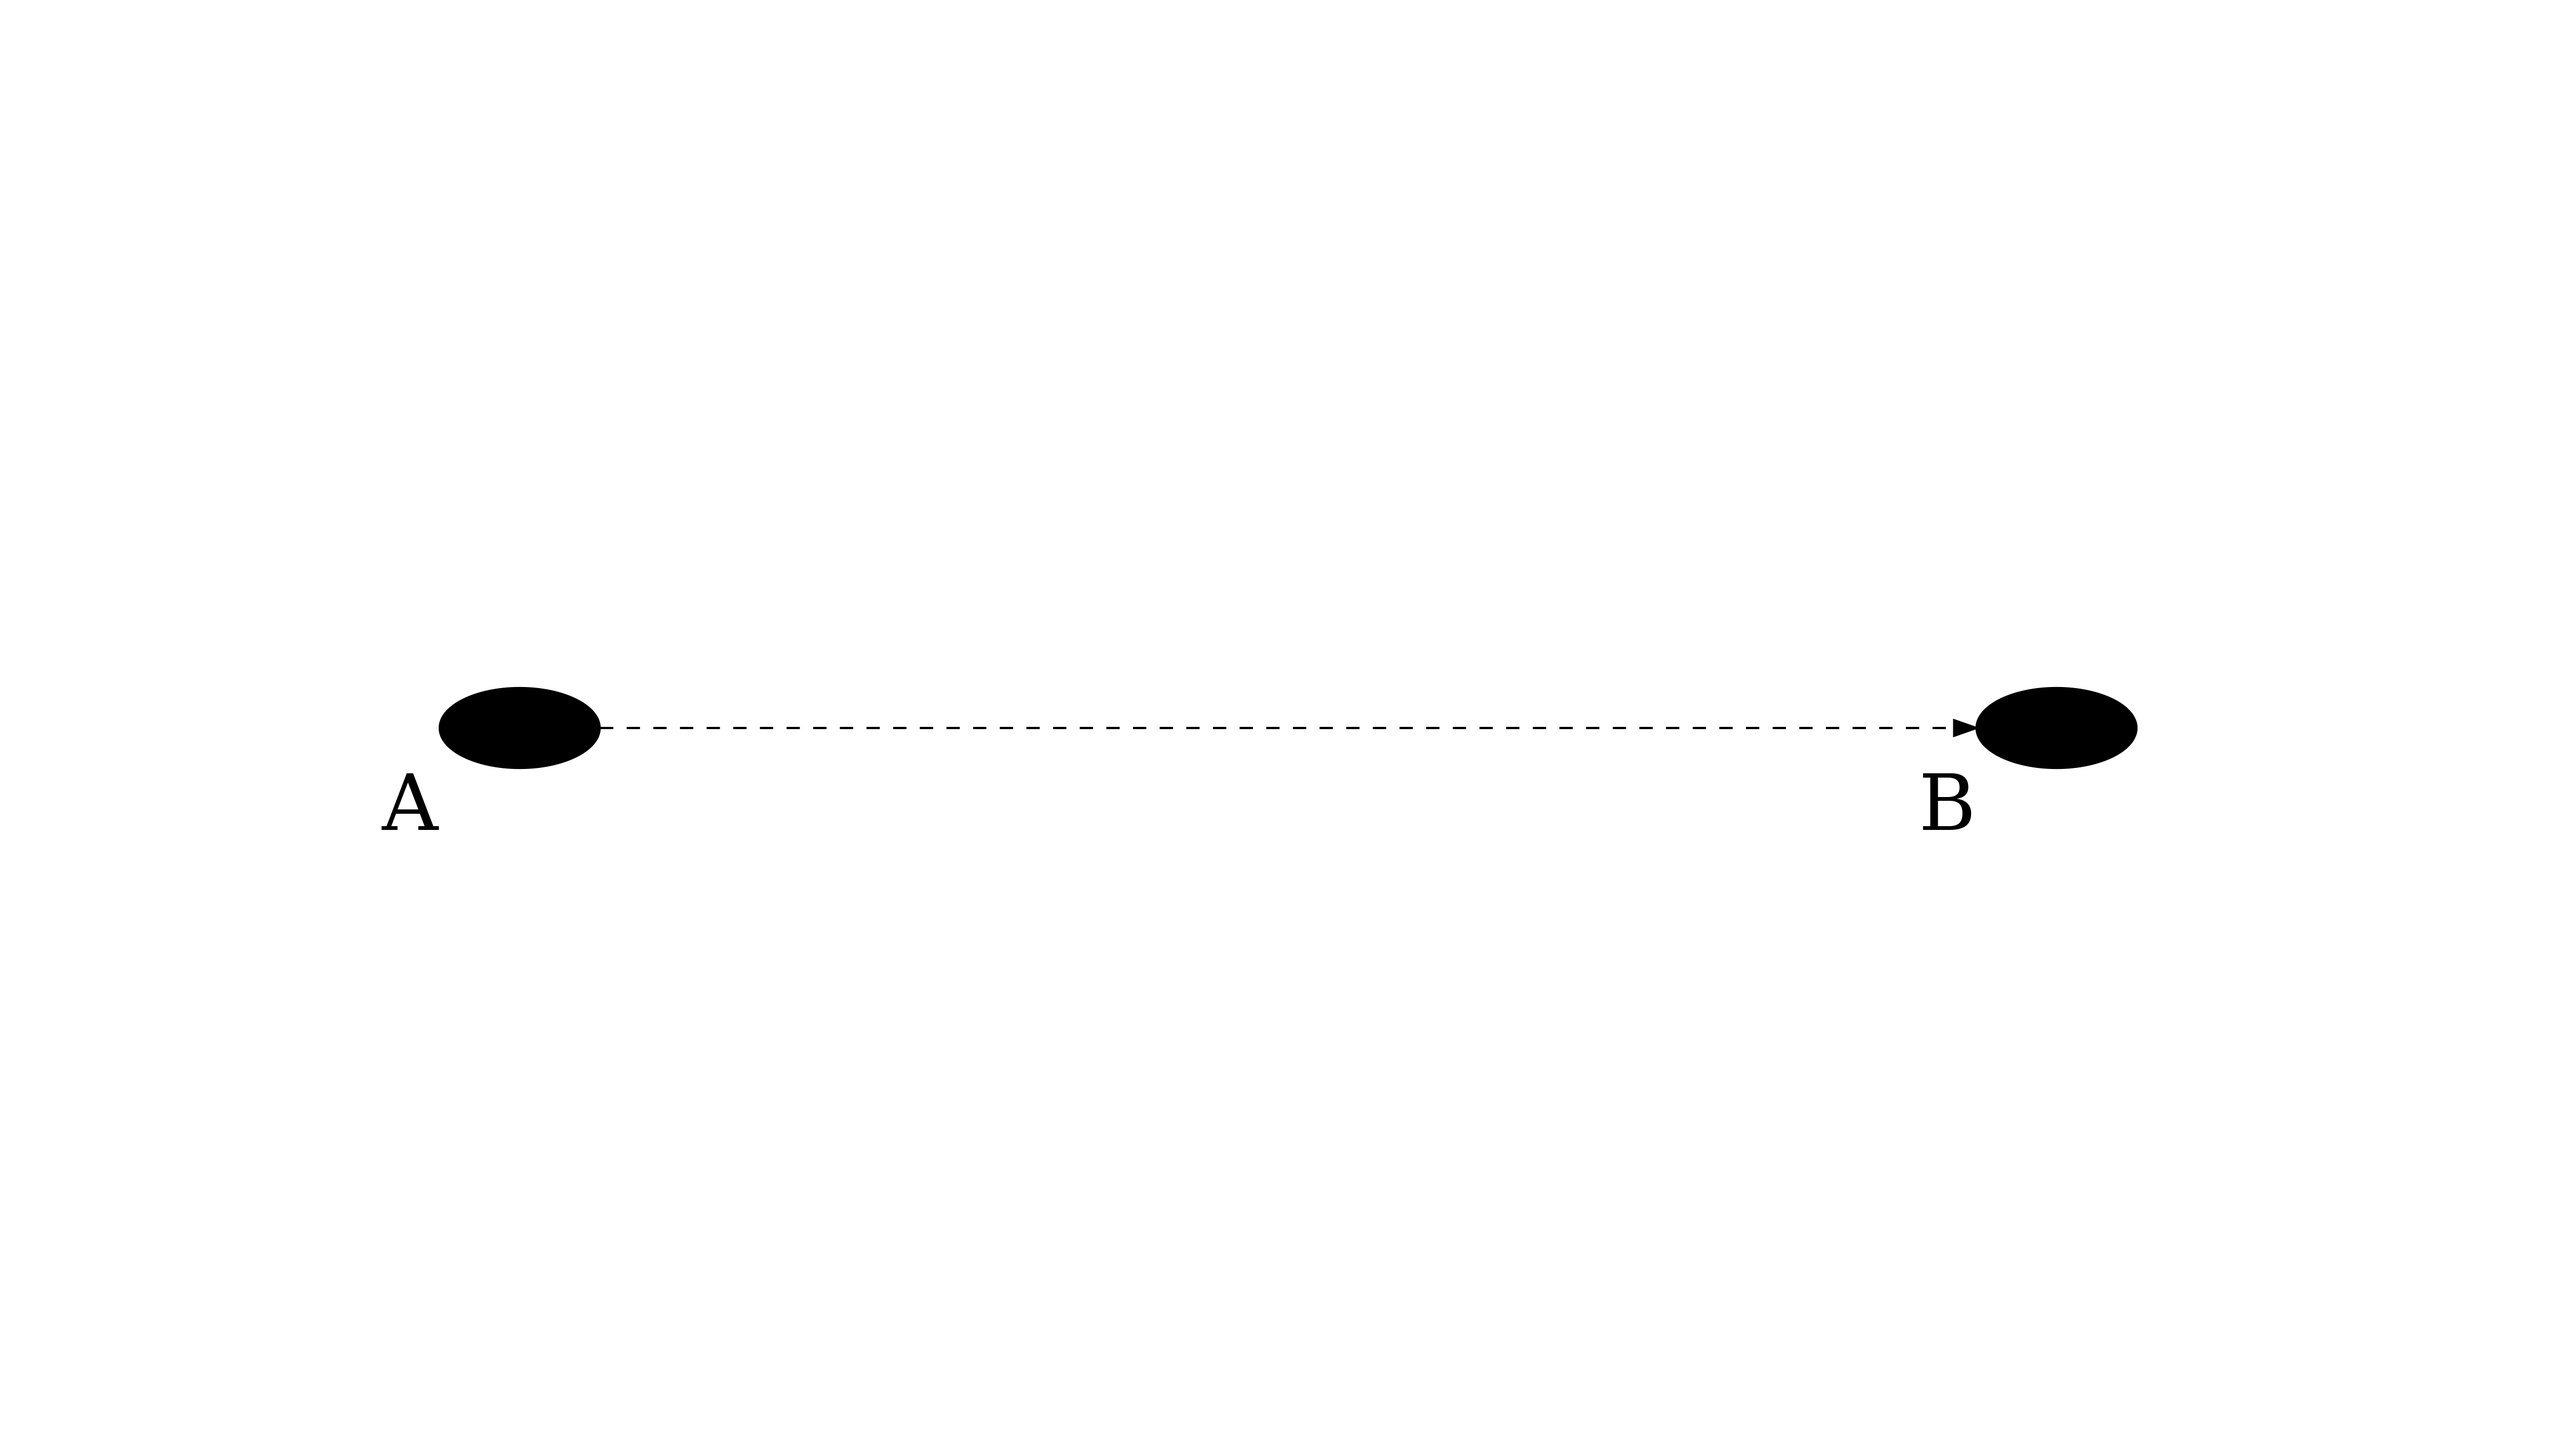
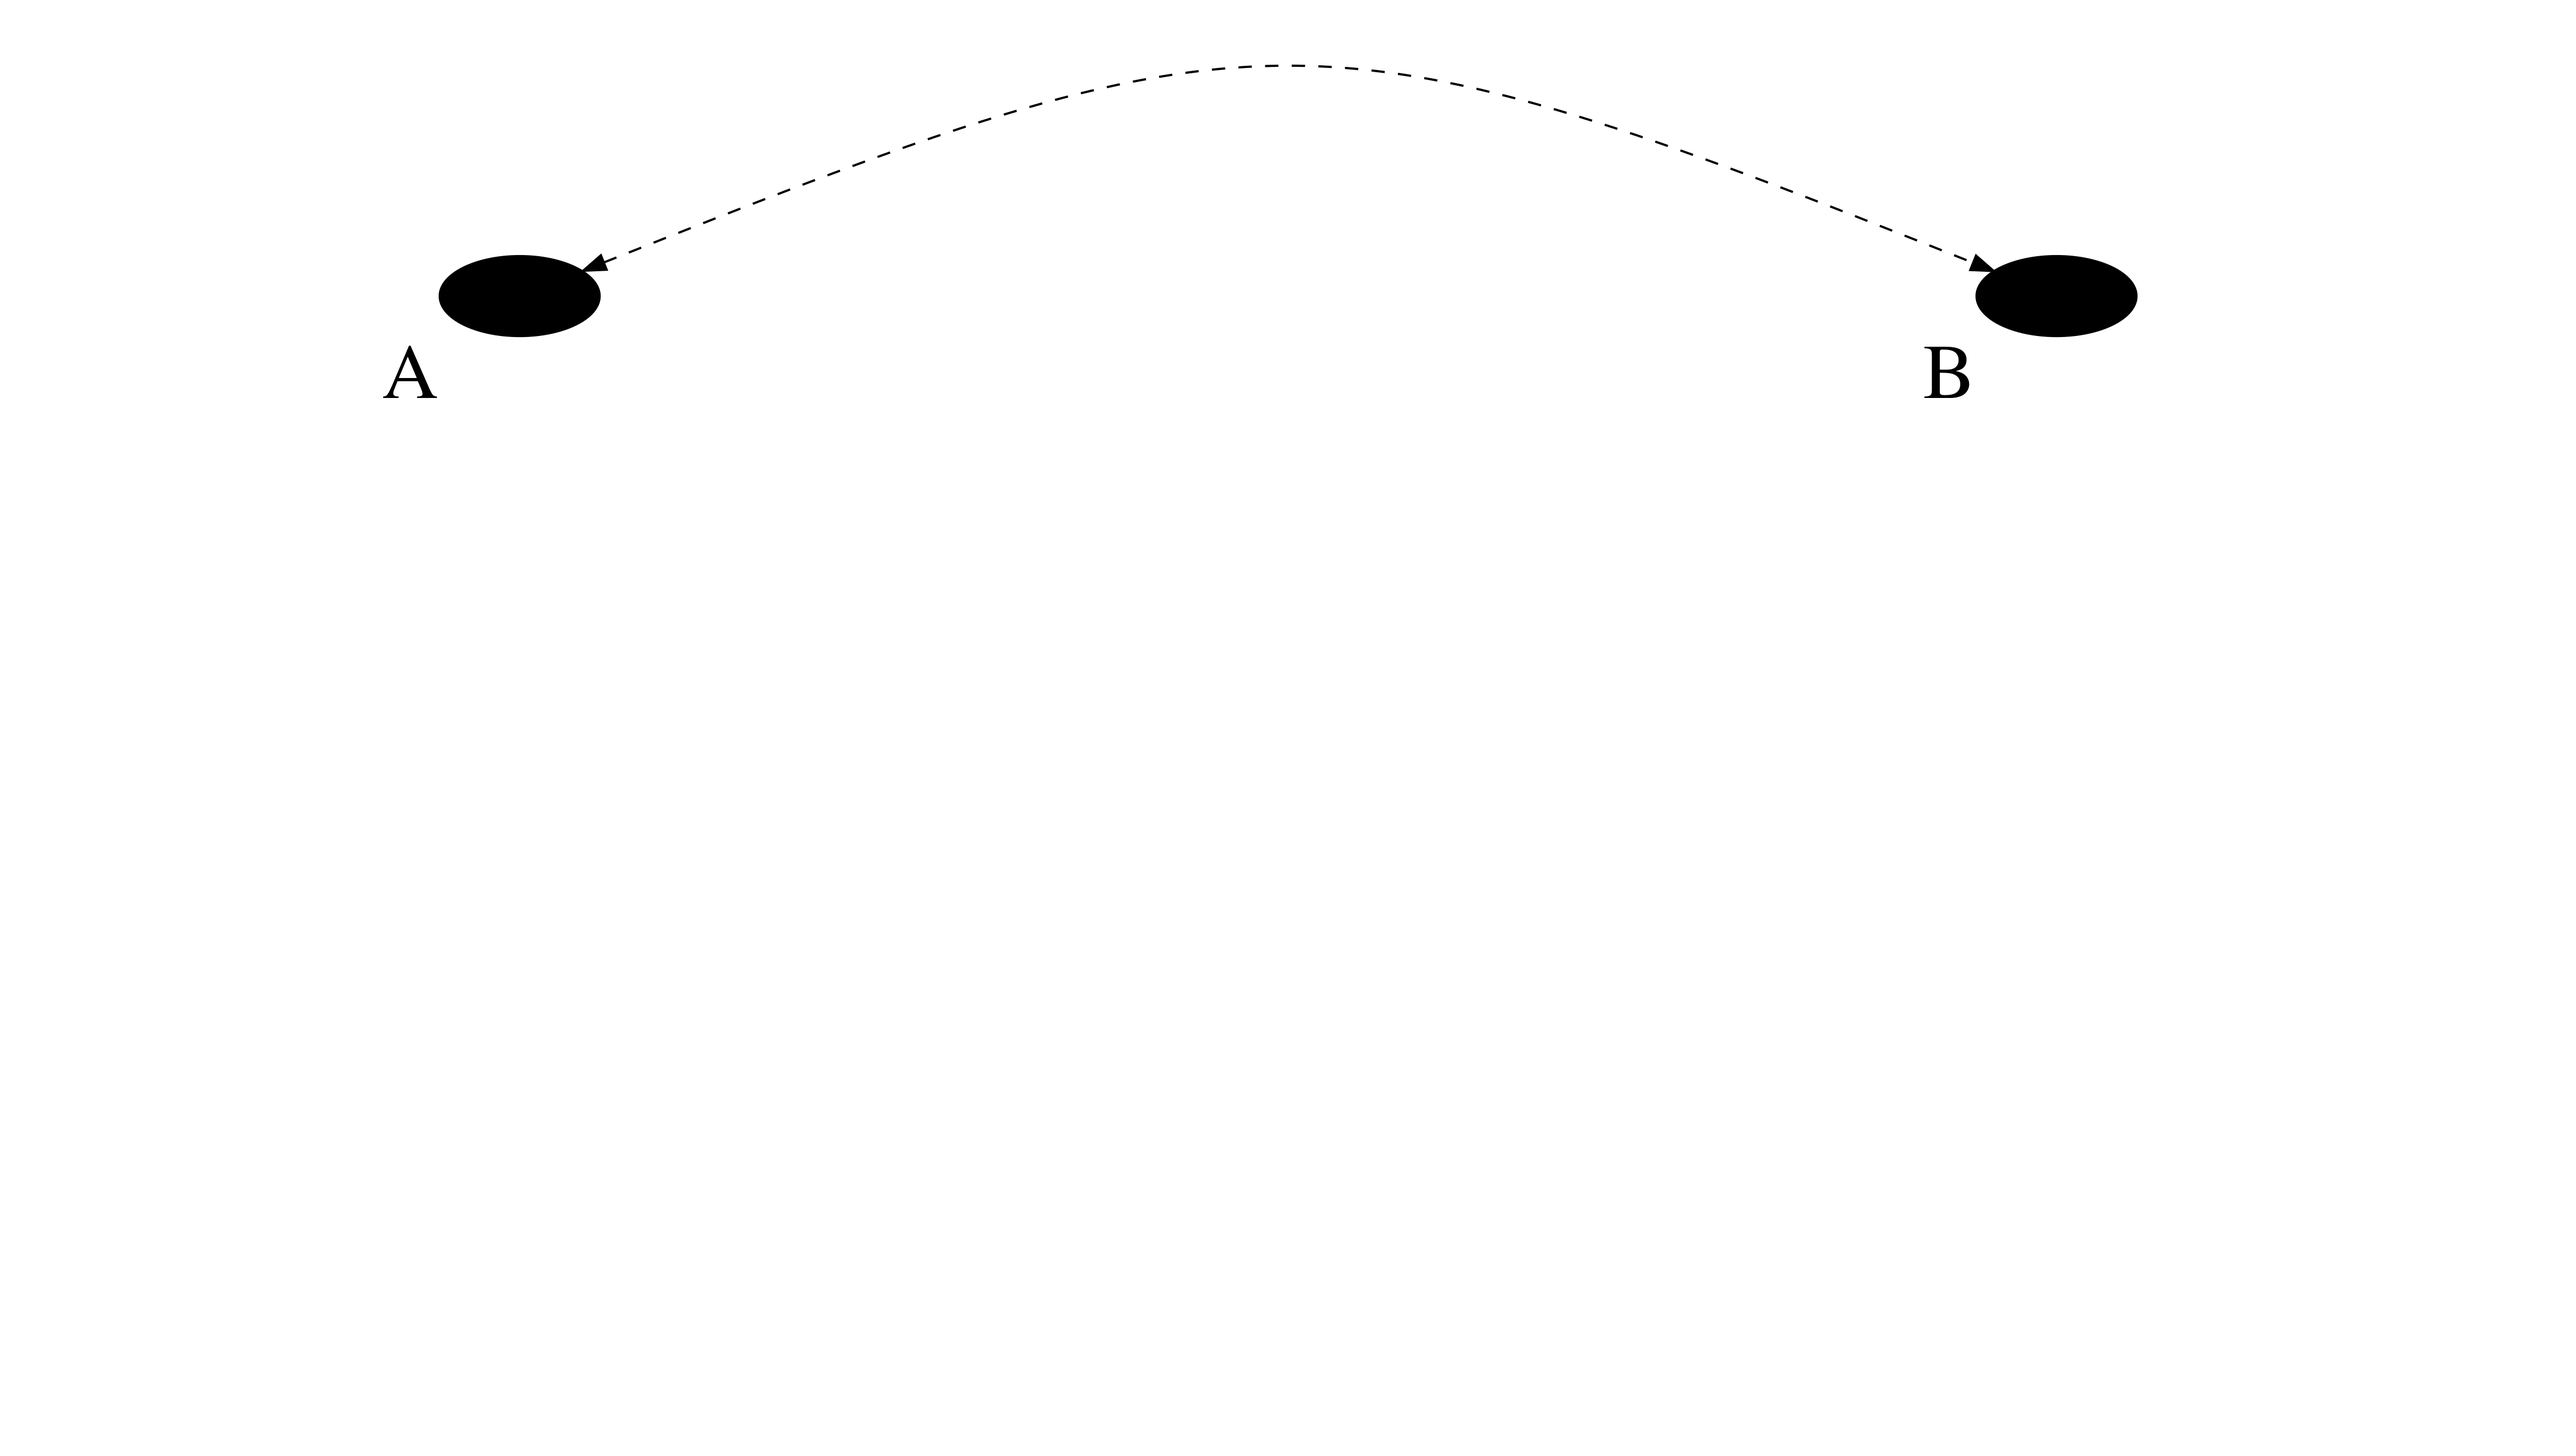
curved edge

diff --git a/handouts/01-causal-graphs/sources/main.tex b/handouts/01-causal-graphs/sources/main.tex
@@ -1,8 +1,9 @@
 \input{../../../utils/header_article.tex}
-
+\usepackage{subfig}
 \usepackage{graphicx}
 \newcommand\sbullet[1][.5]{\mathbin{\vcenter{\hbox{\scalebox{#1}{$\bullet$}}}}}
 \usepackage[export]{adjustbox}
+
 
 \title{Causal Graphs\thanks{We are indebted to Liudmila Kiseleva for the design of the handout.}}
 \subtitle{Definitions, patterns, and strategies}
@@ -41,11 +42,12 @@
 \scalebox{0.05}{\includegraphics{../materials/fig-1-handout}}
 \end{figure}
 
-\item \textbf{Mutual dependence} of two variables on one or more common causes is shown:
+\item \textbf{Mutual dependence} of two variables on one or more common causes is shown with bidirected dashed curved edge:
 
 \begin{figure}[htp]\centering
-\caption{Mutual dependence}\
+\caption{Mediation}\
 \scalebox{0.05}{\includegraphics{../materials/fig-2-b-handout}}
+\scalebox{0.05}{\includegraphics{../materials/fig-2-a-handout}}
 \end{figure}
 
 \end{itemize}
@@ -115,6 +117,7 @@ A \textbf{front-door criterion} is an empirical strategy used to identify the ca
 \caption{Front-door criterion}\
 \scalebox{0.05}{\includegraphics{../materials/fig-6-handout}}
 \end{figure}
+
 
 You can find more on front-door criterion application in the \cite{Bellemare.2020} paper.
 
